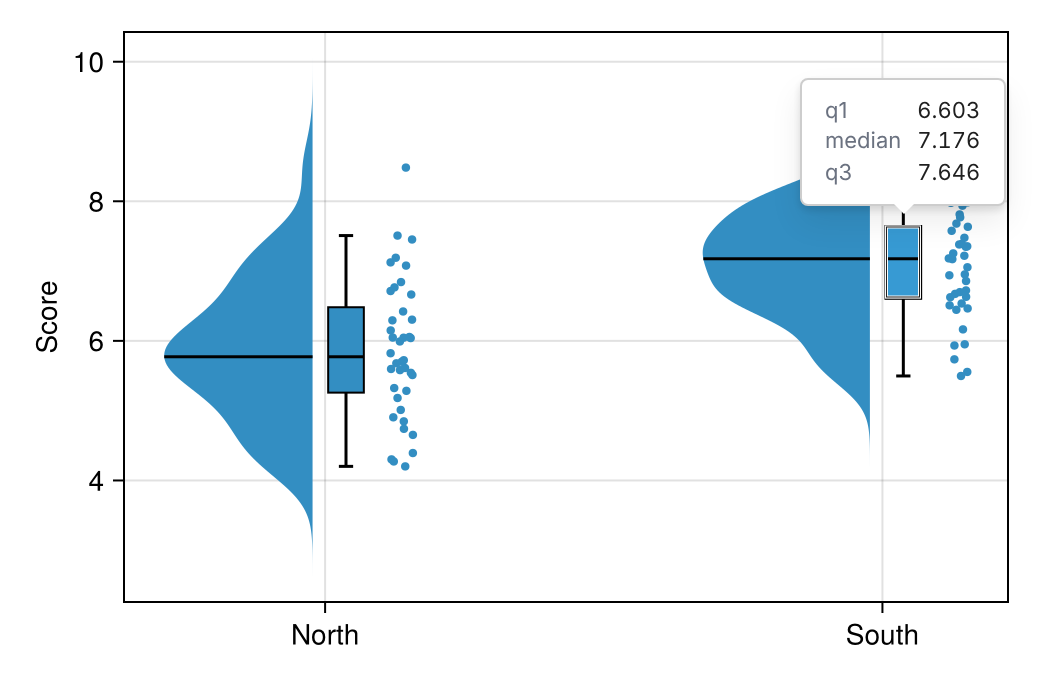
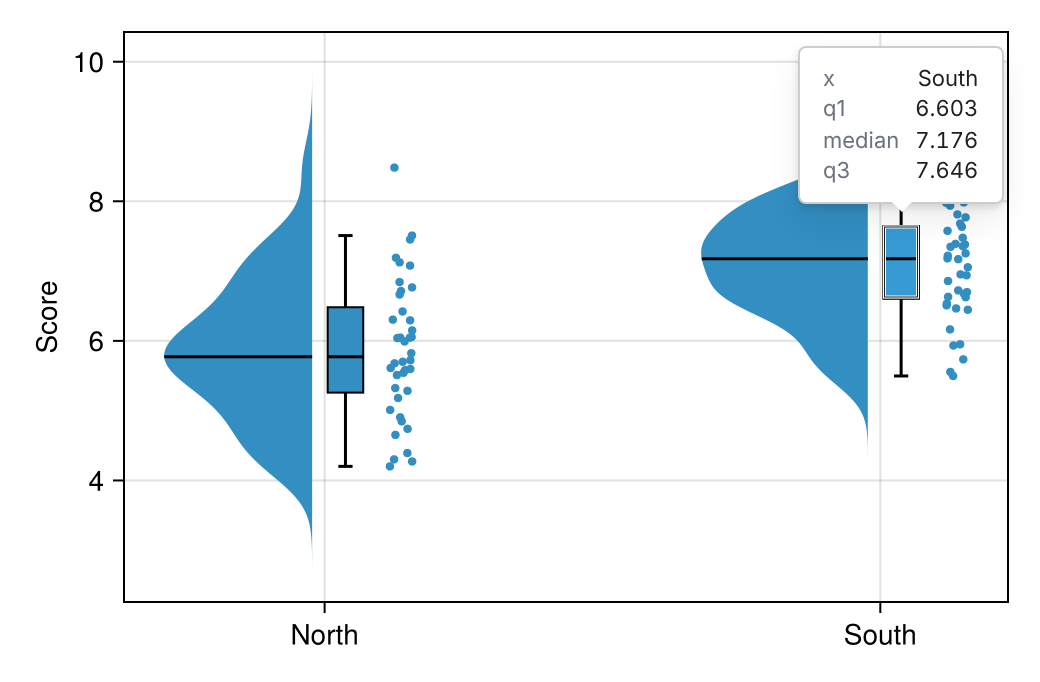
Describe the violin tooltip as it is since #612
A violin's tooltip now shows its tick label, so the page says so, and
the payload example adds what the axis can't show. The rainclouds
gallery picture is retaken after the merge, with the box tooltip's x row.

Claude-Session: https://claude.ai/code/session_01Ew7PwgqnNia1UydDdmU58i

diff --git a/docs/src/plots/violin.md b/docs/src/plots/violin.md
@@ -1,7 +1,7 @@
 # `violin!`
 
 `masque(fig)` makes each violin respond on its own: hovering a violin
-shows its `x`, the number you placed it at, and a click selects it and
+shows its category, the tick label under it, and a click selects it and
 sends it to your notebook. Hover the violins below, then click one:
 
 ```@raw html
@@ -30,8 +30,9 @@ its category as `y` instead of `x`.
 
 ## Show your own data
 
-To show the species instead of its number, give each violin a payload, one per
-violin from left to right, and a tooltip template that uses its fields:
+To show what the axis can't, such as how many penguins each violin holds and
+their median weight, give each violin a payload, one per violin from left to
+right, and a tooltip template that uses its fields:
 
 ```@raw html
 <div class="masque-embed-wrap">
